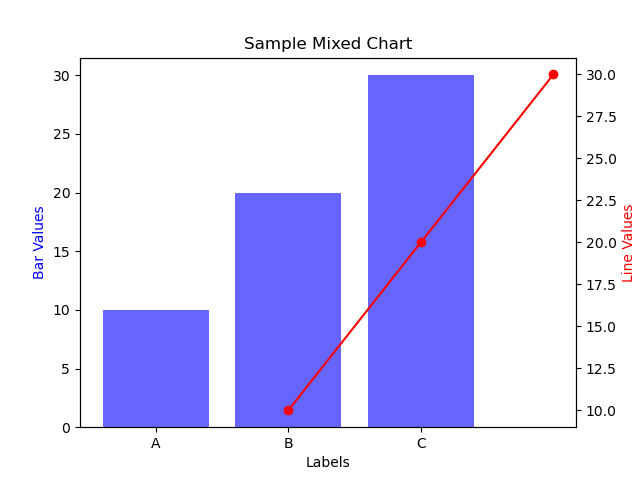
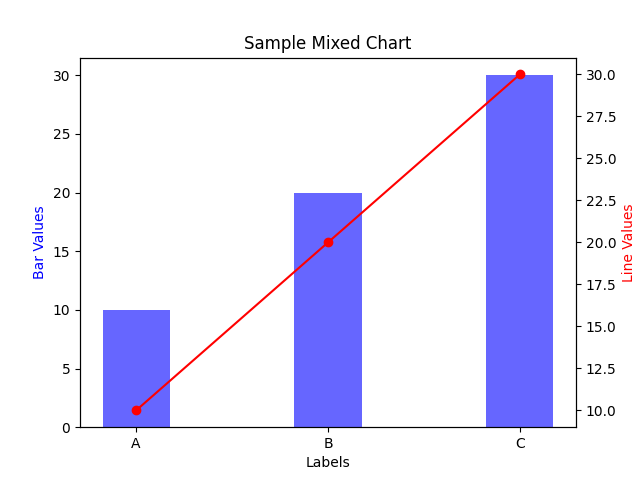
modify line bar mixed chart

diff --git a/controller/ChartProcessPyScripts/draw_line_bar_mixed_chart.py b/controller/ChartProcessPyScripts/draw_line_bar_mixed_chart.py
@@ -1,24 +1,33 @@
-# draw_line_bar_mixed_chart.py
 import sys
 import json
 import matplotlib.pyplot as plt
+import numpy as np
 
 def draw_line_bar_mixed_chart(title, line_data, bar_data):
     fig, ax1 = plt.subplots()
 
     # Plot bar chart
-    labels = [item['label'] for item in bar_data]
-    values = [item['value'] for item in bar_data]
-    ax1.bar(labels, values, color='b', alpha=0.6)
+    bar_labels = [item['label'] for item in bar_data]
+    bar_values = [item['value'] for item in bar_data]
+    x = np.arange(len(bar_labels))  # the label locations
+    width = 0.35  # the width of the bars
+
+    ax1.bar(x, bar_values, width, label='Bar', color='b', alpha=0.6)
     ax1.set_xlabel('Labels')
     ax1.set_ylabel('Bar Values', color='b')
 
     # Plot line chart
+    line_x = [item['x'] for item in line_data]
+    line_y = [item['y'] for item in line_data]
     ax2 = ax1.twinx()
-    x = [item['x'] for item in line_data]
-    y = [item['y'] for item in line_data]
-    ax2.plot(x, y, color='r', marker='o')
+    ax2.plot(x, line_y, color='r', marker='o', label='Line')
     ax2.set_ylabel('Line Values', color='r')
+
+    # Set x-ticks and x-tick labels for both charts
+    ax1.set_xticks(x)
+    ax1.set_xticklabels(bar_labels)
+    ax2.set_xticks(x)
+    ax2.set_xticklabels(bar_labels)
 
     plt.title(title)
     plt.savefig('line_bar_mixed_chart.png')

diff --git a/README.md b/README.md
@@ -81,9 +81,9 @@ Enter the JSON data in the request body, for example:
 {
   "title": "Sample Mixed Chart",
   "line_data": [
-    {"x": 1, "y": 10},
-    {"x": 2, "y": 20},
-    {"x": 3, "y": 30}
+    {"x": A, "y": 10},
+    {"x": A, "y": 20},
+    {"x": A, "y": 30}
   ],
   "bar_data": [
     {"label": "A", "value": 10},
